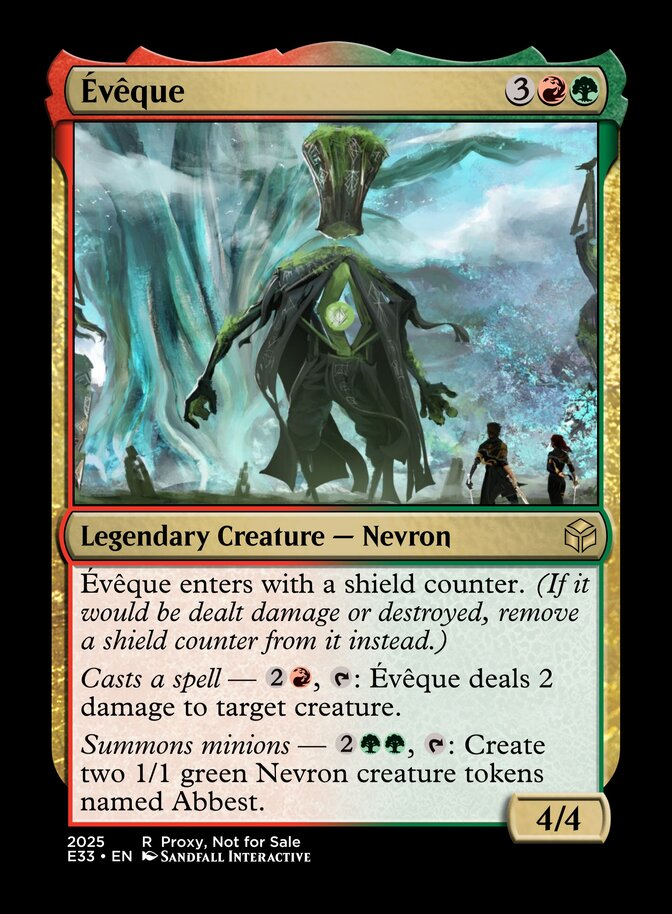
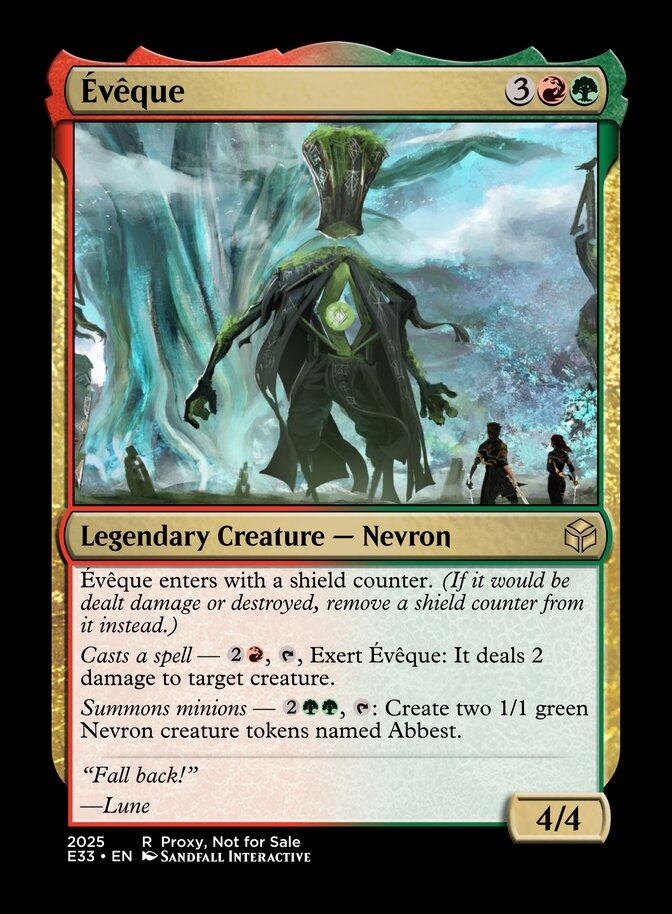
Eveque: Add exertion to "Casts a spell" ability to curb power level. Also add flavor text.
Fixes #148

Changed region(s): [[0.125, 0.6127, 0.875, 0.8884]]

diff --git a/design/MULTICOLOR.md b/design/MULTICOLOR.md
@@ -1,6 +1,6 @@
 # Cards
 
-> Last generated: 6/7/2026 12:48:33 pm
+> Last generated: 6/7/2026 1:11:53 pm
 
 ## Aberration
 
@@ -666,8 +666,11 @@ When Estelle dies, create a Chroma token. (It's an artifact with "{T}, Sacrifice
 3RG
 Legendary Creature - Nevron
 Évêque enters with a shield counter. (If it would be dealt damage or destroyed, remove a shield counter from it instead.)
-Casts a spell — {2}{R}, {T}: Évêque deals 2 damage to target creature.
+Casts a spell — {2}{R}, {T}, Exert Évêque: It deals 2 damage to target creature.
 Summons minions — {2}{G}{G}, {T}: Create two 1/1 green Nevron creature tokens named Abbest.
+---
+“Fall back!”
+—Lune
 
 4/4
 ```
@@ -677,6 +680,7 @@ Summons minions — {2}{G}{G}, {T}: Create two 1/1 green Nevron creature tokens 
 ### Design Notes
 
  - In the game, Évêque is the first boss, encountered at the end of Spring Meadows.
+ - 6/7/2026: Tweaked "Casts a spell" ability to require exertion to curb power level (repeatable creature shocks need some drawback)
 
 ## Expedition 34 Mage
 
